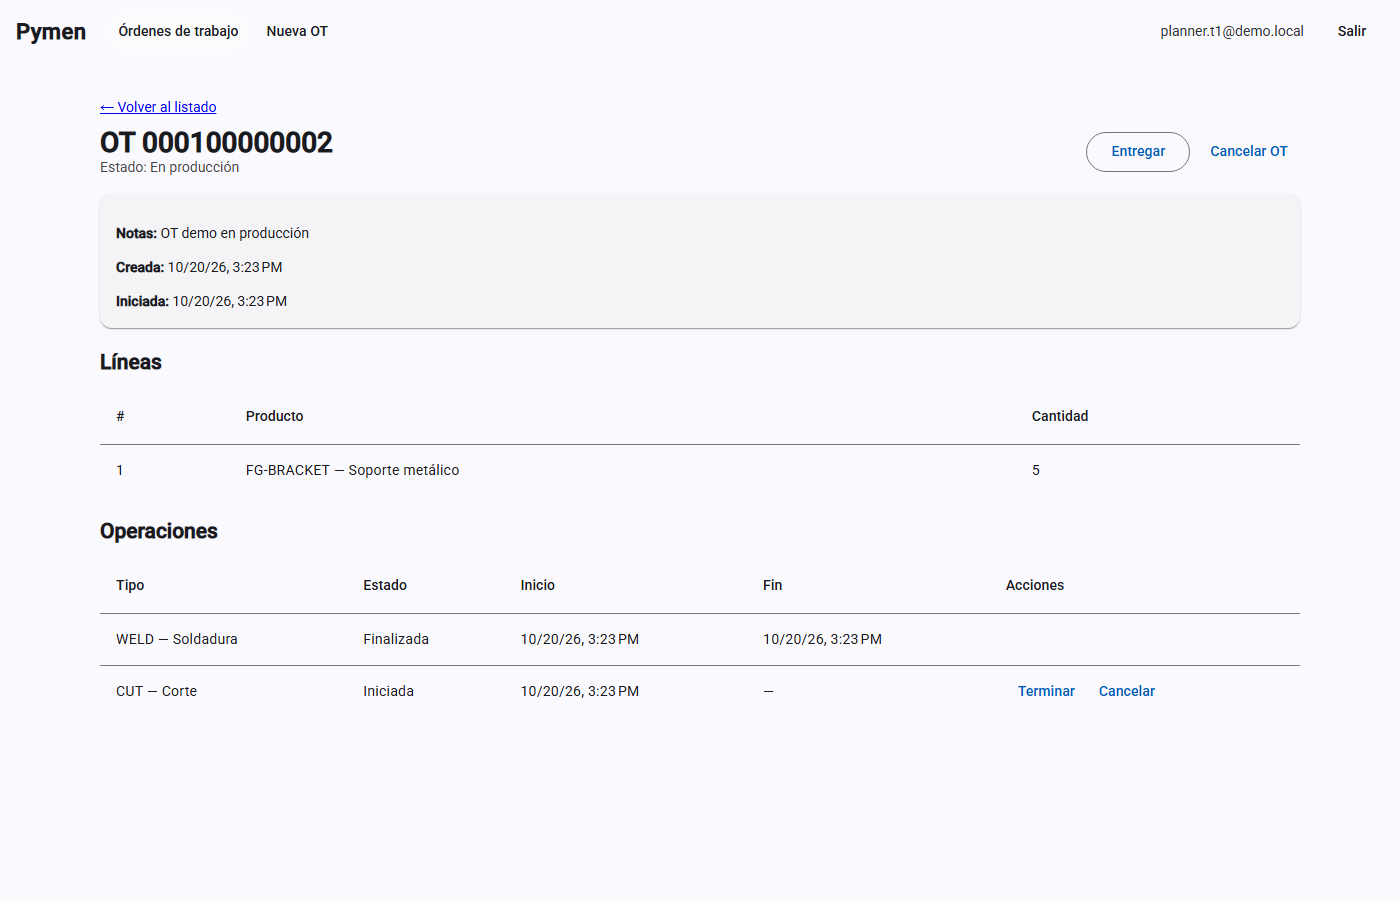
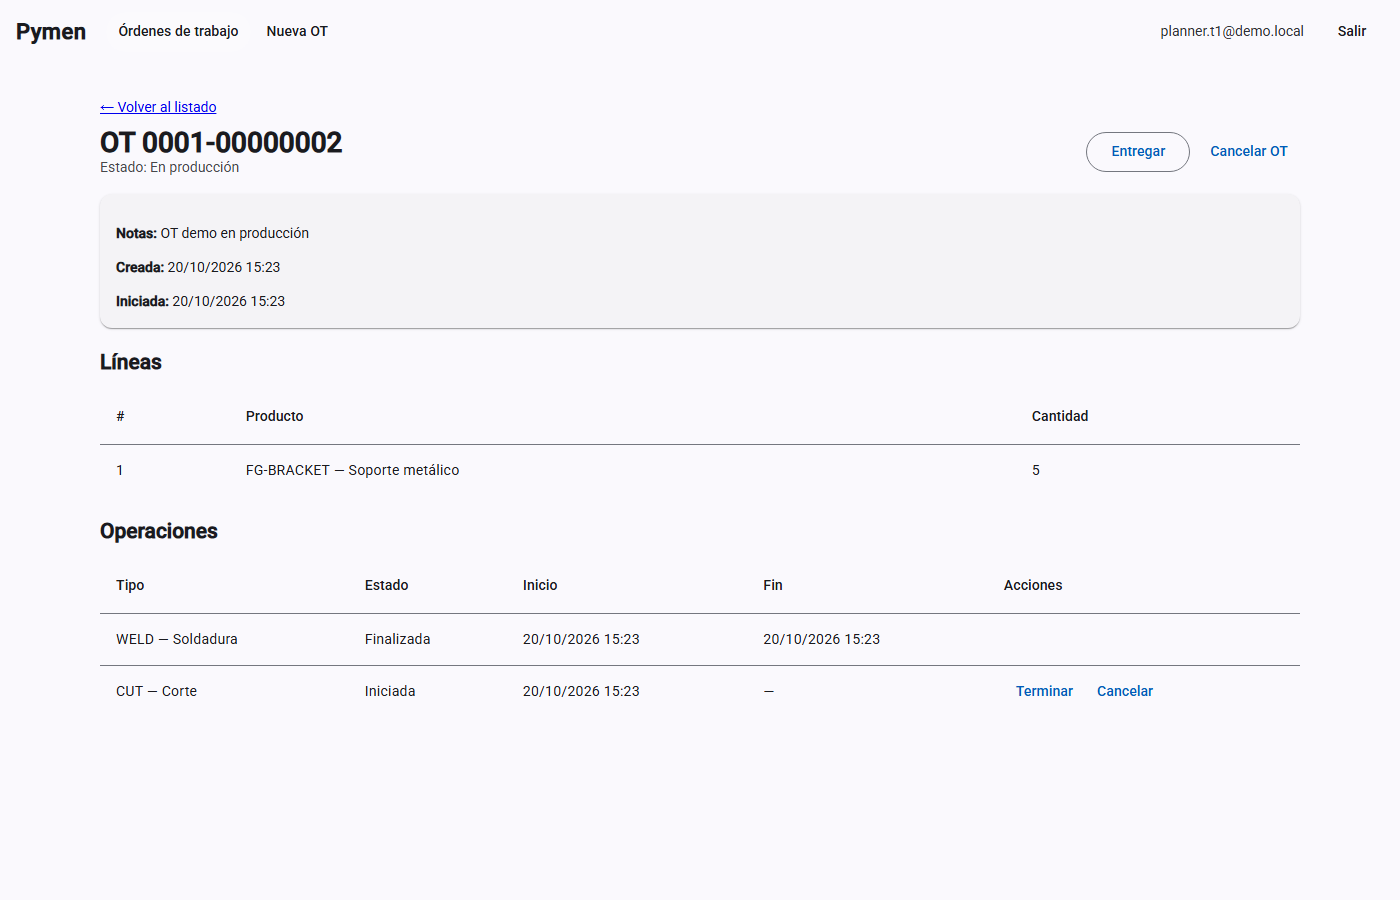
fix(web): localize SPA to es-AR and format OT numbers
Spanish paginator labels, dd/MM/yyyy HH:mm timestamps, and
display-only work-order numbers (0001-00000002). Regen README shots.

diff --git a/web/src/app/features/work-orders/work-order-detail.component.html b/web/src/app/features/work-orders/work-order-detail.component.html
@@ -5,7 +5,7 @@
 } @else if (workOrder(); as wo) {
   <section class="page-header">
     <div>
-      <h1>OT {{ wo.number }}</h1>
+      <h1>OT {{ wo.number | workOrderNumber }}</h1>
       <p class="meta">Estado: {{ statusLabel(wo.status) }}</p>
     </div>
     <div class="actions">
@@ -31,18 +31,18 @@
   <mat-card>
     <mat-card-content>
       <p><strong>Notas:</strong> {{ wo.notes || '—' }}</p>
-      <p><strong>Creada:</strong> {{ wo.createdAt | date: 'short' }}</p>
+      <p><strong>Creada:</strong> {{ wo.createdAt | date: dateTime }}</p>
       @if (wo.startedAt) {
-        <p><strong>Iniciada:</strong> {{ wo.startedAt | date: 'short' }}</p>
+        <p><strong>Iniciada:</strong> {{ wo.startedAt | date: dateTime }}</p>
       }
       @if (wo.deliveredAt) {
-        <p><strong>Entregada:</strong> {{ wo.deliveredAt | date: 'short' }}</p>
+        <p><strong>Entregada:</strong> {{ wo.deliveredAt | date: dateTime }}</p>
       }
       @if (wo.invoicedAt) {
-        <p><strong>Facturada:</strong> {{ wo.invoicedAt | date: 'short' }}</p>
+        <p><strong>Facturada:</strong> {{ wo.invoicedAt | date: dateTime }}</p>
       }
       @if (wo.cancelledAt) {
-        <p><strong>Cancelada:</strong> {{ wo.cancelledAt | date: 'short' }}</p>
+        <p><strong>Cancelada:</strong> {{ wo.cancelledAt | date: dateTime }}</p>
       }
     </mat-card-content>
   </mat-card>
@@ -77,11 +77,11 @@
     </ng-container>
     <ng-container matColumnDef="startedAt">
       <th mat-header-cell *matHeaderCellDef>Inicio</th>
-      <td mat-cell *matCellDef="let row">{{ row.startedAt ? (row.startedAt | date: 'short') : '—' }}</td>
+      <td mat-cell *matCellDef="let row">{{ row.startedAt ? (row.startedAt | date: dateTime) : '—' }}</td>
     </ng-container>
     <ng-container matColumnDef="finishedAt">
       <th mat-header-cell *matHeaderCellDef>Fin</th>
-      <td mat-cell *matCellDef="let row">{{ row.finishedAt ? (row.finishedAt | date: 'short') : '—' }}</td>
+      <td mat-cell *matCellDef="let row">{{ row.finishedAt ? (row.finishedAt | date: dateTime) : '—' }}</td>
     </ng-container>
     <ng-container matColumnDef="actions">
       <th mat-header-cell *matHeaderCellDef>Acciones</th>

diff --git a/web/src/app/features/work-orders/work-order-list.component.spec.ts b/web/src/app/features/work-orders/work-order-list.component.spec.ts
@@ -1,14 +1,19 @@
 import { provideHttpClient } from '@angular/common/http';
 import { HttpTestingController, provideHttpClientTesting } from '@angular/common/http/testing';
+import { LOCALE_ID } from '@angular/core';
 import { TestBed } from '@angular/core/testing';
+import { MatPaginatorIntl } from '@angular/material/paginator';
 import { provideAnimationsAsync } from '@angular/platform-browser/animations/async';
 import { provideRouter } from '@angular/router';
+import { APP_LOCALE, ensureAppLocale } from '../../core/i18n/locale';
+import { SpanishPaginatorIntl } from '../../core/i18n/spanish-paginator-intl';
 import { WorkOrderListComponent } from './work-order-list.component';
 
 describe('WorkOrderListComponent', () => {
   let http: HttpTestingController;
 
   beforeEach(async () => {
+    ensureAppLocale();
     sessionStorage.setItem(
       'pymen.auth.session',
       JSON.stringify({
@@ -27,6 +32,8 @@ describe('WorkOrderListComponent', () => {
         provideHttpClientTesting(),
         provideRouter([]),
         provideAnimationsAsync(),
+        { provide: LOCALE_ID, useValue: APP_LOCALE },
+        { provide: MatPaginatorIntl, useClass: SpanishPaginatorIntl },
       ],
     }).compileComponents();
 
@@ -48,7 +55,7 @@ describe('WorkOrderListComponent', () => {
       items: [
         {
           id: 'aaaaaaaa-aaaa-aaaa-aaaa-aaaaaaaaaaaa',
-          number: 'OT-100',
+          number: '000100000100',
           customerId: 'bbbbbbbb-bbbb-bbbb-bbbb-bbbbbbbbbbbb',
           status: 'Draft',
           notes: null,
@@ -76,8 +83,10 @@ describe('WorkOrderListComponent', () => {
     fixture.detectChanges();
 
     const text = (fixture.nativeElement as HTMLElement).textContent ?? '';
-    expect(text).toContain('OT-100');
+    expect(text).toContain('0001-00000100');
     expect(text).toContain('Borrador');
     expect(text).toContain('Cliente Demo');
+    expect(text).toContain('Ítems por página');
+    expect(text).toMatch(/1\s*[–-]\s*1 de 1/);
   });
 });

diff --git a/web/src/app/app.config.ts b/web/src/app/app.config.ts
@@ -1,9 +1,15 @@
 import { provideHttpClient, withInterceptors } from '@angular/common/http';
-import { ApplicationConfig, provideBrowserGlobalErrorListeners } from '@angular/core';
+import { ApplicationConfig, LOCALE_ID, provideBrowserGlobalErrorListeners } from '@angular/core';
+import { MAT_DATE_LOCALE } from '@angular/material/core';
+import { MatPaginatorIntl } from '@angular/material/paginator';
 import { provideAnimationsAsync } from '@angular/platform-browser/animations/async';
 import { provideRouter, withComponentInputBinding } from '@angular/router';
 import { routes } from './app.routes';
 import { authInterceptor } from './core/auth/auth.interceptor';
+import { APP_LOCALE, ensureAppLocale } from './core/i18n/locale';
+import { SpanishPaginatorIntl } from './core/i18n/spanish-paginator-intl';
+
+ensureAppLocale();
 
 export const appConfig: ApplicationConfig = {
   providers: [
@@ -11,5 +17,8 @@ export const appConfig: ApplicationConfig = {
     provideRouter(routes, withComponentInputBinding()),
     provideHttpClient(withInterceptors([authInterceptor])),
     provideAnimationsAsync(),
+    { provide: LOCALE_ID, useValue: APP_LOCALE },
+    { provide: MAT_DATE_LOCALE, useValue: APP_LOCALE },
+    { provide: MatPaginatorIntl, useClass: SpanishPaginatorIntl },
   ],
 };

diff --git a/web/src/app/features/work-orders/work-order-list.component.ts b/web/src/app/features/work-orders/work-order-list.component.ts
@@ -15,12 +15,15 @@ import { WORK_ORDER_STATUSES, workOrderStatusLabel } from '../../core/api/labels
 import { CustomerResponse, WorkOrderResponse } from '../../core/api/models';
 import { AuthService } from '../../core/auth/auth.service';
 import { CatalogService } from '../../core/catalog/catalog.service';
+import { PYMEN_DATE_TIME } from '../../core/i18n/date-formats';
+import { WorkOrderNumberPipe } from '../../core/i18n/work-order-number.pipe';
 import { WorkOrderService } from '../../core/work-orders/work-order.service';
 
 @Component({
   selector: 'app-work-order-list',
   imports: [
     DatePipe,
+    WorkOrderNumberPipe,
     ReactiveFormsModule,
     RouterLink,
     MatTableModule,
@@ -56,6 +59,7 @@ export class WorkOrderListComponent implements OnInit {
   readonly statuses = WORK_ORDER_STATUSES;
   readonly columns = ['number', 'customer', 'status', 'createdAt', 'actions'];
   readonly statusLabel = workOrderStatusLabel;
+  readonly dateTime = PYMEN_DATE_TIME;
 
   ngOnInit(): void {
     this.filters.valueChanges

diff --git a/web/src/app/features/work-orders/work-order-detail.component.ts b/web/src/app/features/work-orders/work-order-detail.component.ts
@@ -17,12 +17,15 @@ import {
 } from '../../core/api/models';
 import { AuthService } from '../../core/auth/auth.service';
 import { CatalogService } from '../../core/catalog/catalog.service';
+import { PYMEN_DATE_TIME } from '../../core/i18n/date-formats';
+import { WorkOrderNumberPipe } from '../../core/i18n/work-order-number.pipe';
 import { WorkOrderService } from '../../core/work-orders/work-order.service';
 
 @Component({
   selector: 'app-work-order-detail',
   imports: [
     DatePipe,
+    WorkOrderNumberPipe,
     RouterLink,
     MatCardModule,
     MatButtonModule,
@@ -38,6 +41,7 @@ export class WorkOrderDetailComponent implements OnInit {
   private readonly apiErrors = inject(ApiErrorService);
   private readonly destroyRef = inject(DestroyRef);
   readonly auth = inject(AuthService);
+  readonly dateTime = PYMEN_DATE_TIME;
 
   /** Bound from route param `:id` via `withComponentInputBinding()`. */
   readonly id = input.required<string>();

diff --git a/web/src/app/core/i18n/spanish-paginator-intl.ts b/web/src/app/core/i18n/spanish-paginator-intl.ts
@@ -1,0 +1,21 @@
+import { Injectable } from '@angular/core';
+import { MatPaginatorIntl } from '@angular/material/paginator';
+
+@Injectable()
+export class SpanishPaginatorIntl extends MatPaginatorIntl {
+  override itemsPerPageLabel = 'Ítems por página:';
+  override nextPageLabel = 'Página siguiente';
+  override previousPageLabel = 'Página anterior';
+  override firstPageLabel = 'Primera página';
+  override lastPageLabel = 'Última página';
+
+  override getRangeLabel = (page: number, pageSize: number, length: number): string => {
+    if (length === 0 || pageSize === 0) {
+      return `0 de ${length}`;
+    }
+
+    const start = page * pageSize;
+    const end = Math.min(start + pageSize, length);
+    return `${start + 1} – ${end} de ${length}`;
+  };
+}

diff --git a/web/src/app/features/work-orders/work-order-list.component.html b/web/src/app/features/work-orders/work-order-list.component.html
@@ -35,7 +35,7 @@
   <table mat-table [dataSource]="items()" class="mat-elevation-z1 full-table">
     <ng-container matColumnDef="number">
       <th mat-header-cell *matHeaderCellDef>Número</th>
-      <td mat-cell *matCellDef="let row">{{ row.number }}</td>
+      <td mat-cell *matCellDef="let row">{{ row.number | workOrderNumber }}</td>
     </ng-container>
 
     <ng-container matColumnDef="customer">
@@ -50,7 +50,7 @@
 
     <ng-container matColumnDef="createdAt">
       <th mat-header-cell *matHeaderCellDef>Creada</th>
-      <td mat-cell *matCellDef="let row">{{ row.createdAt | date: 'short' }}</td>
+      <td mat-cell *matCellDef="let row">{{ row.createdAt | date: dateTime }}</td>
     </ng-container>
 
     <ng-container matColumnDef="actions">

diff --git a/web/src/app/core/i18n/work-order-number.pipe.spec.ts b/web/src/app/core/i18n/work-order-number.pipe.spec.ts
@@ -1,0 +1,22 @@
+import { WorkOrderNumberPipe } from './work-order-number.pipe';
+
+describe('WorkOrderNumberPipe', () => {
+  const pipe = new WorkOrderNumberPipe();
+
+  it('formats a 12-digit number as POS-sequence', () => {
+    expect(pipe.transform('000100000002')).toBe('0001-00000002');
+  });
+
+  it('leaves already-formatted values unchanged', () => {
+    expect(pipe.transform('0001-00000002')).toBe('0001-00000002');
+  });
+
+  it('returns empty for nullish input', () => {
+    expect(pipe.transform(null)).toBe('');
+    expect(pipe.transform(undefined)).toBe('');
+  });
+
+  it('passes through non-standard values', () => {
+    expect(pipe.transform('OT-100')).toBe('OT-100');
+  });
+});

diff --git a/web/src/app/core/i18n/work-order-number.pipe.ts b/web/src/app/core/i18n/work-order-number.pipe.ts
@@ -1,0 +1,27 @@
+import { Pipe, PipeTransform } from '@angular/core';
+
+/**
+ * Display work-order numbers as POS-sequence (0001-00000002).
+ * Storage/API keep the compact 12-digit form (000100000002).
+ */
+@Pipe({
+  name: 'workOrderNumber',
+  standalone: true,
+})
+export class WorkOrderNumberPipe implements PipeTransform {
+  transform(value: string | null | undefined): string {
+    if (!value) {
+      return '';
+    }
+
+    if (value.includes('-')) {
+      return value;
+    }
+
+    if (/^\d{12}$/.test(value)) {
+      return `${value.slice(0, 4)}-${value.slice(4)}`;
+    }
+
+    return value;
+  }
+}

diff --git a/web/src/app/core/i18n/spanish-paginator-intl.spec.ts b/web/src/app/core/i18n/spanish-paginator-intl.spec.ts
@@ -1,0 +1,16 @@
+import { SpanishPaginatorIntl } from './spanish-paginator-intl';
+
+describe('SpanishPaginatorIntl', () => {
+  const intl = new SpanishPaginatorIntl();
+
+  it('uses Spanish labels', () => {
+    expect(intl.itemsPerPageLabel).toBe('Ítems por página:');
+    expect(intl.nextPageLabel).toBe('Página siguiente');
+    expect(intl.previousPageLabel).toBe('Página anterior');
+  });
+
+  it('formats the range label in Spanish', () => {
+    expect(intl.getRangeLabel(0, 10, 3)).toBe('1 – 3 de 3');
+    expect(intl.getRangeLabel(0, 10, 0)).toBe('0 de 0');
+  });
+});

diff --git a/web/src/app/core/i18n/locale.ts b/web/src/app/core/i18n/locale.ts
@@ -1,0 +1,16 @@
+import { registerLocaleData } from '@angular/common';
+import localeEsAr from '@angular/common/locales/es-AR';
+
+/** Application locale identifier (Argentina Spanish). */
+export const APP_LOCALE = 'es-AR';
+
+let registered = false;
+
+/** Idempotent registration for app bootstrap and unit tests. */
+export function ensureAppLocale(): void {
+  if (registered) {
+    return;
+  }
+  registerLocaleData(localeEsAr);
+  registered = true;
+}

diff --git a/web/src/app/core/i18n/date-formats.ts b/web/src/app/core/i18n/date-formats.ts
@@ -1,0 +1,2 @@
+/** Display format for timestamps across the SPA (es-AR). */
+export const PYMEN_DATE_TIME = 'dd/MM/yyyy HH:mm';
